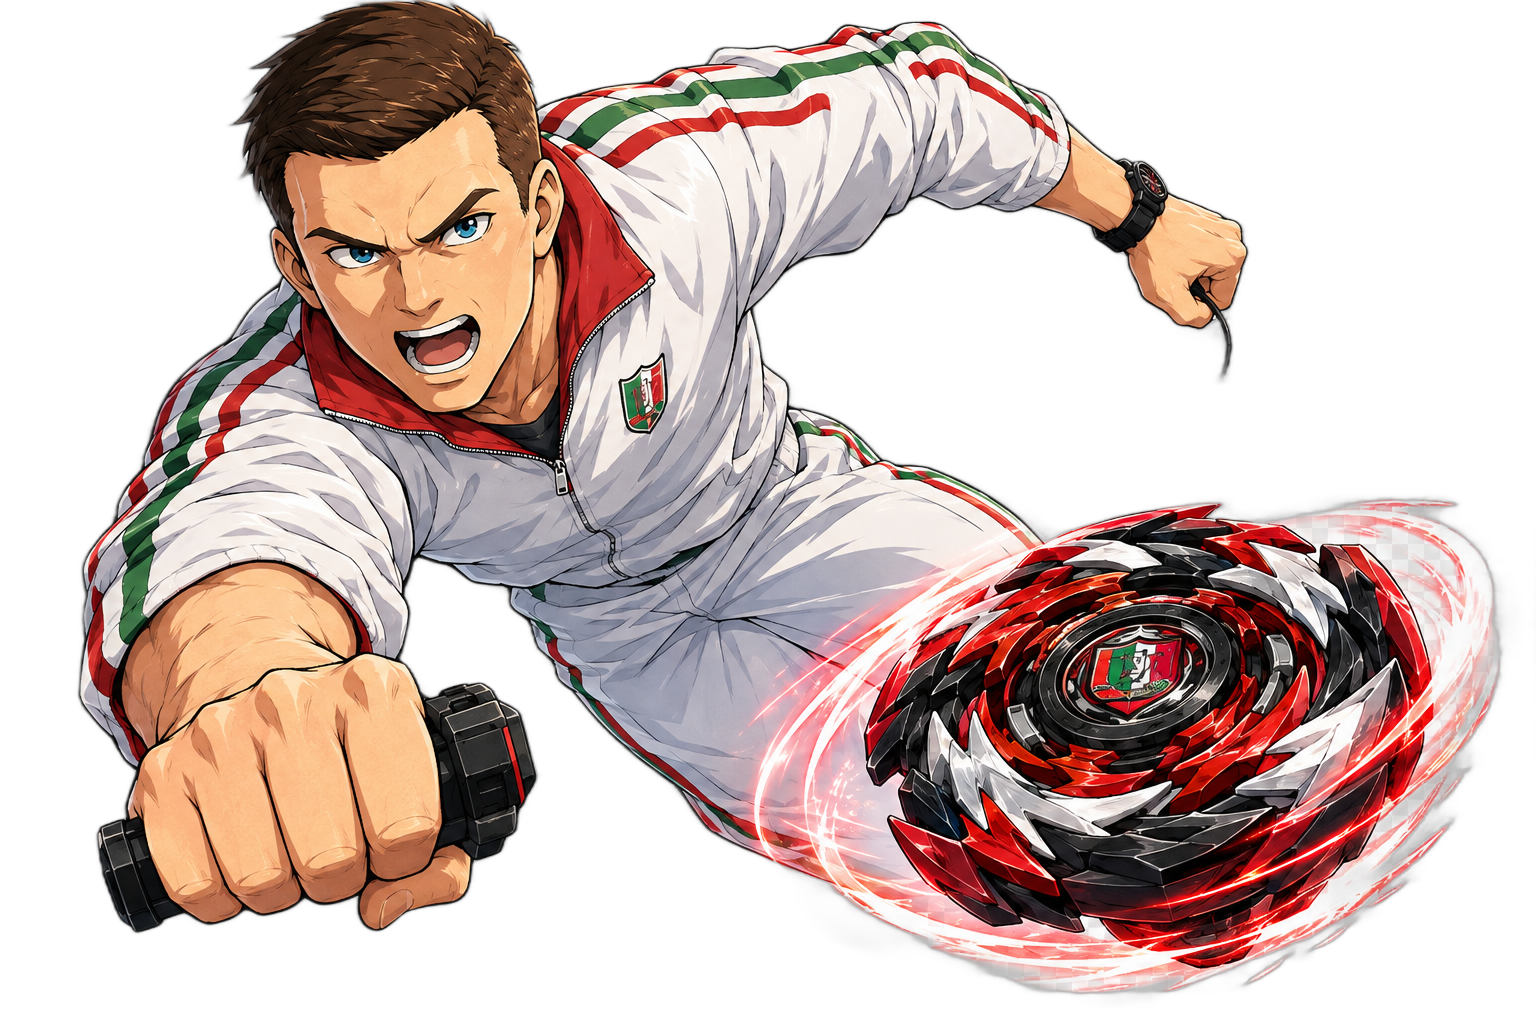
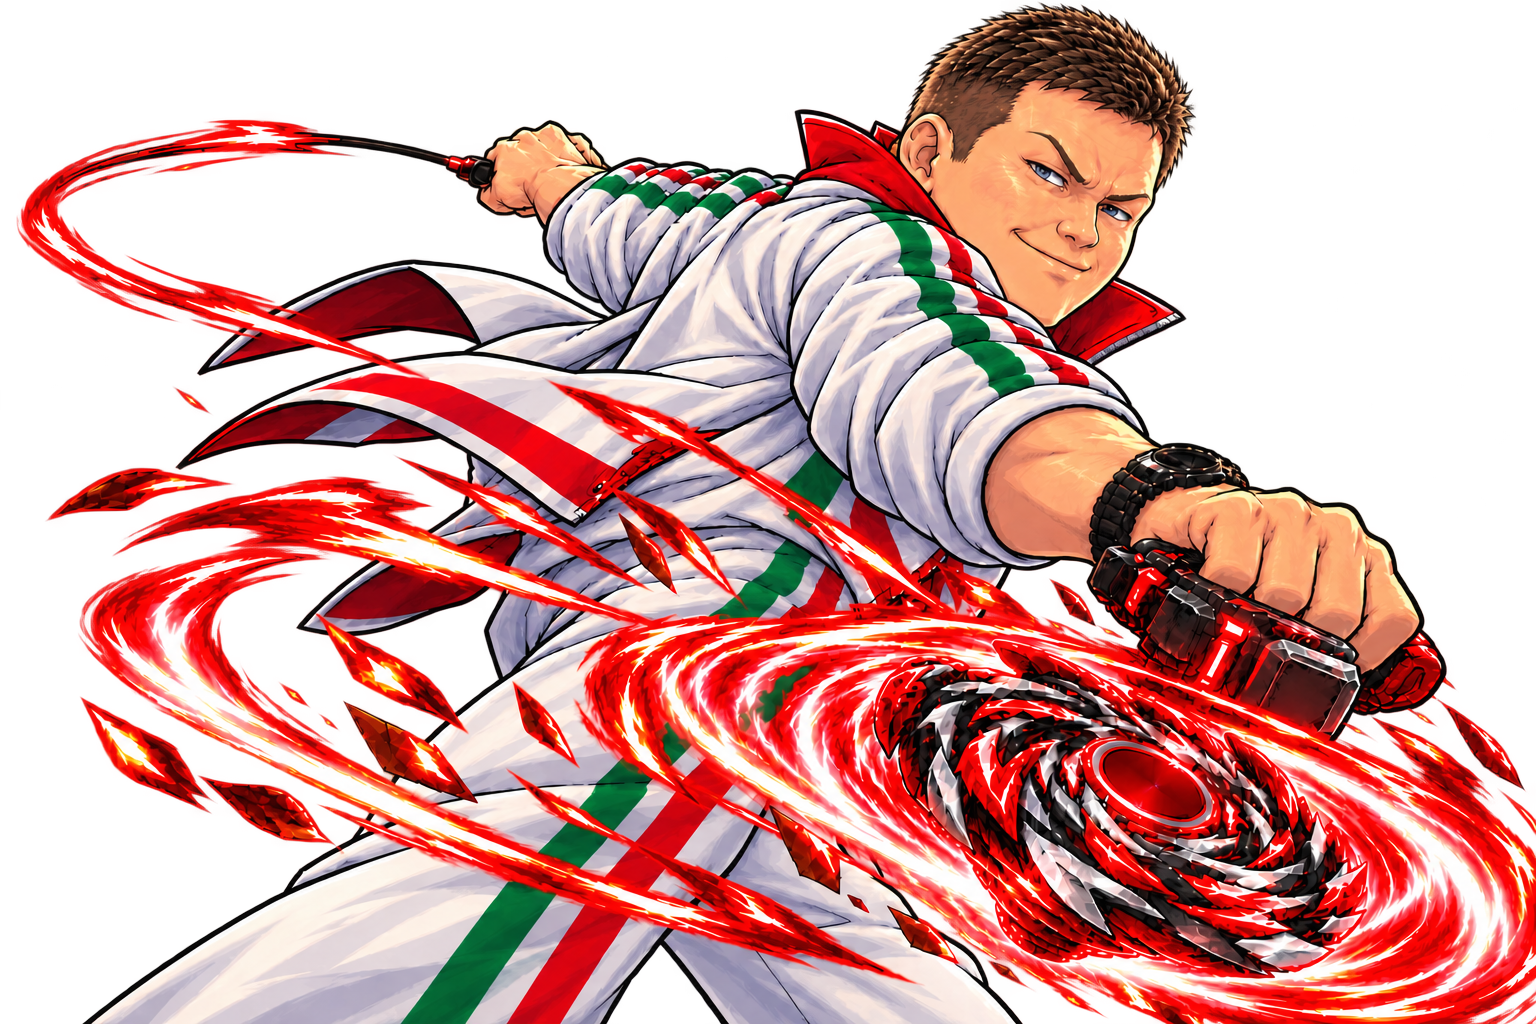
new Breycist starter image (faces right, so mirror) with new face point; royale and qualified labs honour a starter's mirror flag

diff --git a/tournament-app/web/src/routes/tv/lab/qualified/+page.svelte b/tournament-app/web/src/routes/tv/lab/qualified/+page.svelte
@@ -26,8 +26,9 @@
   let label = $state(q.get("label") ?? LABELS[0]);
   let noImg = $state(q.has("noimg"));
   let noFace = $state(q.has("noface"));
-  // The starters' face points and mirror images (fighters.json), by picture name.
+  // The starters' face points, mirror flags and mirror images (fighters.json), by picture name.
   const starterOf = (img: string) => starterList.find((s: { image?: string }) => s.image === `${img}.png`);
+  const mirrorOf = (img: string) => !!(starterOf(img) as { mirror?: boolean } | undefined)?.mirror;
   const faceOf = (img: string) => (noFace ? null : toFace(starterOf(img)?.face));
   const mirroredOf = (img: string) => {
     const m = (starterOf(img) as { imageMirrored?: string } | undefined)?.imageMirrored;
@@ -41,7 +42,7 @@
   let run = $state(0);
 
   const fighters = $derived(
-    STARTERS.slice(0, n).map(([name, kana, img]) => ({ name, kana, img: noImg || !img ? "" : `${SF}${img}.png`, face: faceOf(img), imgMirrored: noImg ? "" : mirroredOf(img) })),
+    STARTERS.slice(0, n).map(([name, kana, img]) => ({ name, kana, img: noImg || !img ? "" : `${SF}${img}.png`, face: faceOf(img), imgMirrored: noImg ? "" : mirroredOf(img), mirror: mirrorOf(img) })),
   );
   const voices = $derived(STARTERS.slice(0, n).map(([, , , v]) => (v ? `${SF}${v}.mp3` : "")));
 

diff --git a/tournament-app/web/src/routes/tv/lab/royale/+page.svelte b/tournament-app/web/src/routes/tv/lab/royale/+page.svelte
@@ -23,8 +23,9 @@
   let label = $state(page.url.searchParams.get("label") ?? LABELS[0]);
   let noImg = $state(page.url.searchParams.has("noimg"));
   let noFace = $state(page.url.searchParams.has("noface"));
-  // The starters' face points and mirror images (fighters.json), by picture name.
+  // The starters' face points, mirror flags and mirror images (fighters.json), by picture name.
   const starterOf = (img: string) => starterList.find((s: { image?: string }) => s.image === `${img}.png`);
+  const mirrorOf = (img: string) => !!(starterOf(img) as { mirror?: boolean } | undefined)?.mirror;
   const faceOf = (img: string) => (noFace ? null : toFace(starterOf(img)?.face));
   const mirroredOf = (img: string) => {
     const m = (starterOf(img) as { imageMirrored?: string } | undefined)?.imageMirrored;
@@ -43,6 +44,7 @@
       img: noImg || !img ? "" : `/starter-fighters/${img}.png`,
       face: faceOf(img),
       imgMirrored: noImg ? "" : mirroredOf(img),
+      mirror: mirrorOf(img),
     })),
   );
 
